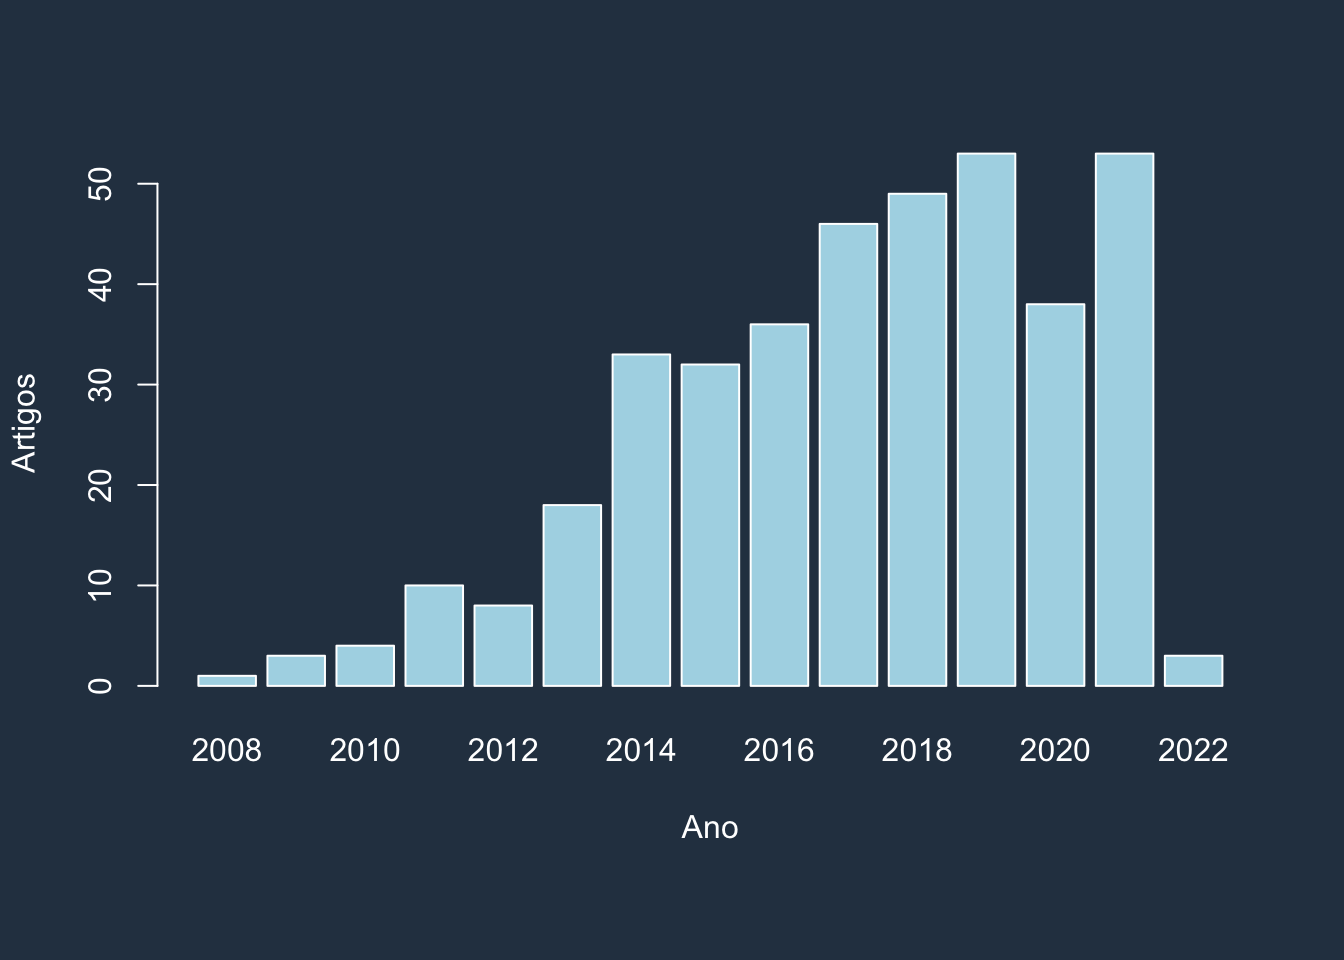
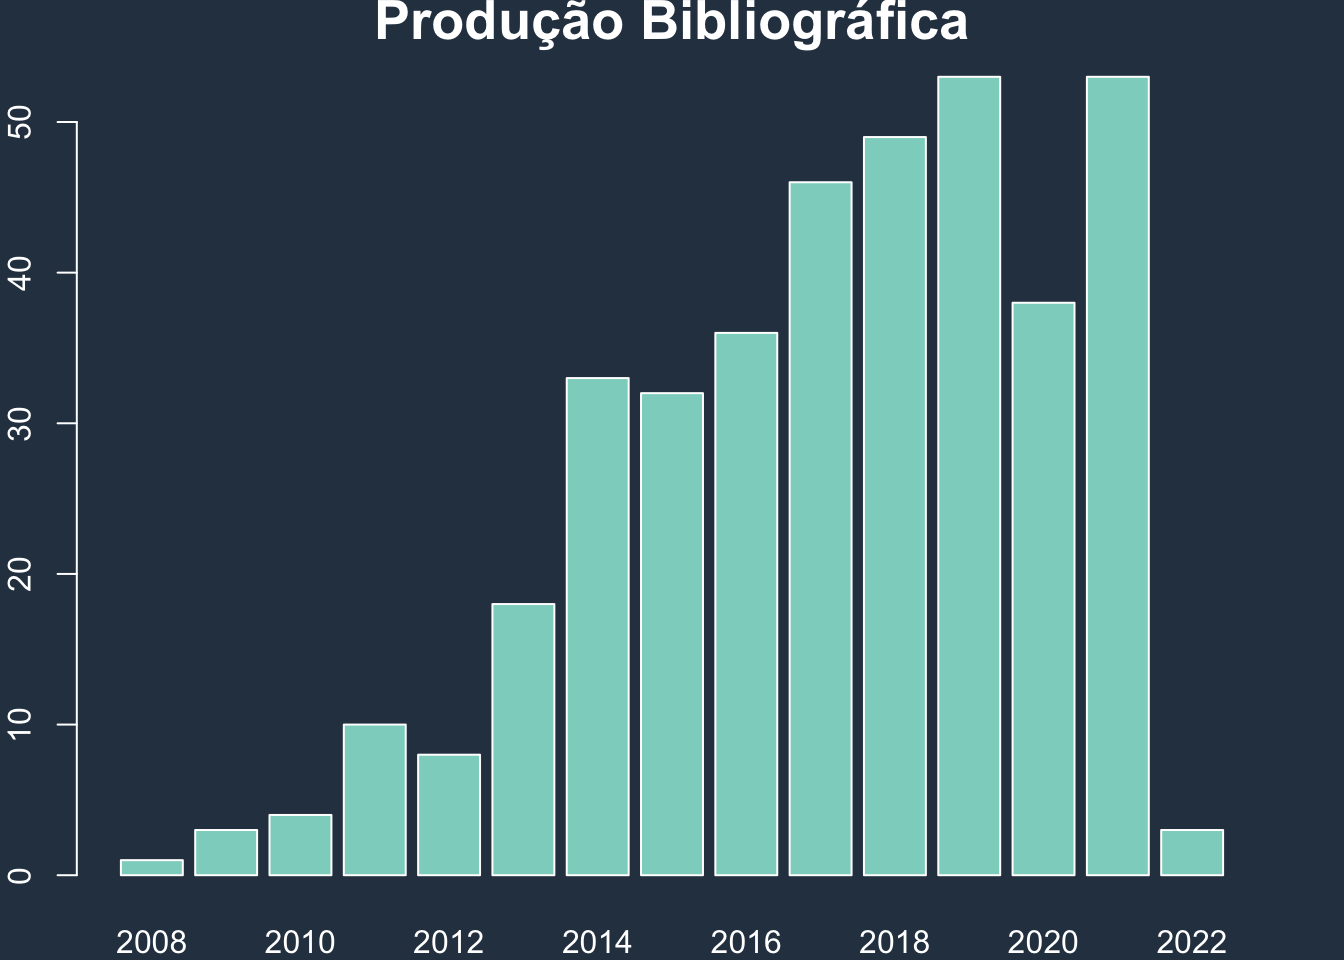
Commit.

diff --git a/docs/index.html b/docs/index.html
@@ -599,11 +599,11 @@ O <strong>OBSERVATÓRIO CR</strong> é uma iniciativa do <strong>Programa de Pó
 </div>
 <div id="tematicas" class="section level2">
 <h2></h2>
-<div id="temas" class="carousel slide" data-ride="carousel">
+<div id="temas-carouse" class="carousel slide" data-ride="carousel">
 <ol class="carousel-indicators">
-<li data-target="#temas" data-slide-to="0" class="active"></li>
-<li data-target="#temas" data-slide-to="1"></li>
-<li data-target="#temas" data-slide-to="2"></li>
+<li data-target="#temas-carouse" data-slide-to="0" class="active"></li>
+<li data-target="#temas-carouse" data-slide-to="1"></li>
+<li data-target="#temas-carouse" data-slide-to="2"></li>
 </ol>
 <div class="carousel-inner" role="listbox">
 <div class="item active">
@@ -616,11 +616,11 @@ O <strong>OBSERVATÓRIO CR</strong> é uma iniciativa do <strong>Programa de Pó
 <img src="index_files/figure-html/Produ%C3%A7%C3%B5es.png" class="img-responsive center-block"/>
 </div>
 </div>
-<a class="left carousel-control" href="#temas" role="button" data-slide="prev">
+<a class="left carousel-control" href="#temas-carouse" role="button" data-slide="prev">
 <span class="glyphicon glyphicon-chevron-left" aria-hidden="true"></span>
 <span class="sr-only">Previous</span>
 </a>
-<a class="right carousel-control" href="#temas" role="button" data-slide="next">
+<a class="right carousel-control" href="#temas-carouse" role="button" data-slide="next">
 <span class="glyphicon glyphicon-chevron-right" aria-hidden="true"></span>
 <span class="sr-only">Next</span>
 </a>
@@ -630,10 +630,10 @@ O <strong>OBSERVATÓRIO CR</strong> é uma iniciativa do <strong>Programa de Pó
 </div>
 <div id="projetos-linha" class="section level2">
 <h2></h2>
-<div id="projetos" class="carousel slide" data-ride="carousel">
+<div id="projetos-carouse" class="carousel slide" data-ride="carousel">
 <ol class="carousel-indicators">
-<li data-target="#projetos" data-slide-to="0" class="active"></li>
-<li data-target="#projetos" data-slide-to="1"></li>
+<li data-target="#projetos-carouse" data-slide-to="0" class="active"></li>
+<li data-target="#projetos-carouse" data-slide-to="1"></li>
 </ol>
 <div class="carousel-inner" role="listbox">
 <div class="item active">
@@ -643,11 +643,11 @@ O <strong>OBSERVATÓRIO CR</strong> é uma iniciativa do <strong>Programa de Pó
 <img src="index_files/figure-html/sintese-projetos-2.png" class="img-responsive center-block"/>
 </div>
 </div>
-<a class="left carousel-control" href="#projetos" role="button" data-slide="prev">
+<a class="left carousel-control" href="#projetos-carouse" role="button" data-slide="prev">
 <span class="glyphicon glyphicon-chevron-left" aria-hidden="true"></span>
 <span class="sr-only">Previous</span>
 </a>
-<a class="right carousel-control" href="#projetos" role="button" data-slide="next">
+<a class="right carousel-control" href="#projetos-carouse" role="button" data-slide="next">
 <span class="glyphicon glyphicon-chevron-right" aria-hidden="true"></span>
 <span class="sr-only">Next</span>
 </a>
@@ -657,12 +657,12 @@ O <strong>OBSERVATÓRIO CR</strong> é uma iniciativa do <strong>Programa de Pó
 </div>
 <div id="financiadores" class="section level2">
 <h2></h2>
-<div id="financiadores" class="carousel slide" data-ride="carousel">
+<div id="financiadores-carouse" class="carousel slide" data-ride="carousel">
 <ol class="carousel-indicators">
-<li data-target="#financiadores" data-slide-to="0" class="active"></li>
-<li data-target="#financiadores" data-slide-to="1"></li>
-<li data-target="#financiadores" data-slide-to="2"></li>
-<li data-target="#financiadores" data-slide-to="3"></li>
+<li data-target="#financiadores-carouse" data-slide-to="0" class="active"></li>
+<li data-target="#financiadores-carouse" data-slide-to="1"></li>
+<li data-target="#financiadores-carouse" data-slide-to="2"></li>
+<li data-target="#financiadores-carouse" data-slide-to="3"></li>
 </ol>
 <div class="carousel-inner" role="listbox">
 <div class="item active">
@@ -678,11 +678,11 @@ O <strong>OBSERVATÓRIO CR</strong> é uma iniciativa do <strong>Programa de Pó
 <img src="index_files/figure-html/sintese-financiadores-4.png" class="img-responsive center-block"/>
 </div>
 </div>
-<a class="left carousel-control" href="#financiadores" role="button" data-slide="prev">
+<a class="left carousel-control" href="#financiadores-carouse" role="button" data-slide="prev">
 <span class="glyphicon glyphicon-chevron-left" aria-hidden="true"></span>
 <span class="sr-only">Previous</span>
 </a>
-<a class="right carousel-control" href="#financiadores" role="button" data-slide="next">
+<a class="right carousel-control" href="#financiadores-carouse" role="button" data-slide="next">
 <span class="glyphicon glyphicon-chevron-right" aria-hidden="true"></span>
 <span class="sr-only">Next</span>
 </a>
@@ -692,10 +692,24 @@ O <strong>OBSERVATÓRIO CR</strong> é uma iniciativa do <strong>Programa de Pó
 </div>
 <div id="producao" class="section level2">
 <h2></h2>
-<h1>
-<a href="producoes.html#bibliografica"><strong>Produção bibliográfica</strong></a>
-</h1>
-<p><img src="index_files/figure-html/sintese-producao-1.png" width="95%" style="display: block; margin: auto;" /></p>
+<div id="producao-carouse" class="carousel slide" data-ride="carousel">
+<ol class="carousel-indicators">
+<li data-target="#producao-carouse" data-slide-to="0" class="active"></li>
+</ol>
+<div class="carousel-inner" role="listbox">
+<div class="item active">
+<img src="index_files/figure-html/sintese-producao-1.png" class="img-responsive center-block"/>
+</div>
+</div>
+<a class="left carousel-control" href="#producao-carouse" role="button" data-slide="prev">
+<span class="glyphicon glyphicon-chevron-left" aria-hidden="true"></span>
+<span class="sr-only">Previous</span>
+</a>
+<a class="right carousel-control" href="#producao-carouse" role="button" data-slide="next">
+<span class="glyphicon glyphicon-chevron-right" aria-hidden="true"></span>
+<span class="sr-only">Next</span>
+</a>
+</div>
 <p><br></p>
 <p><br></p>
 </div>
